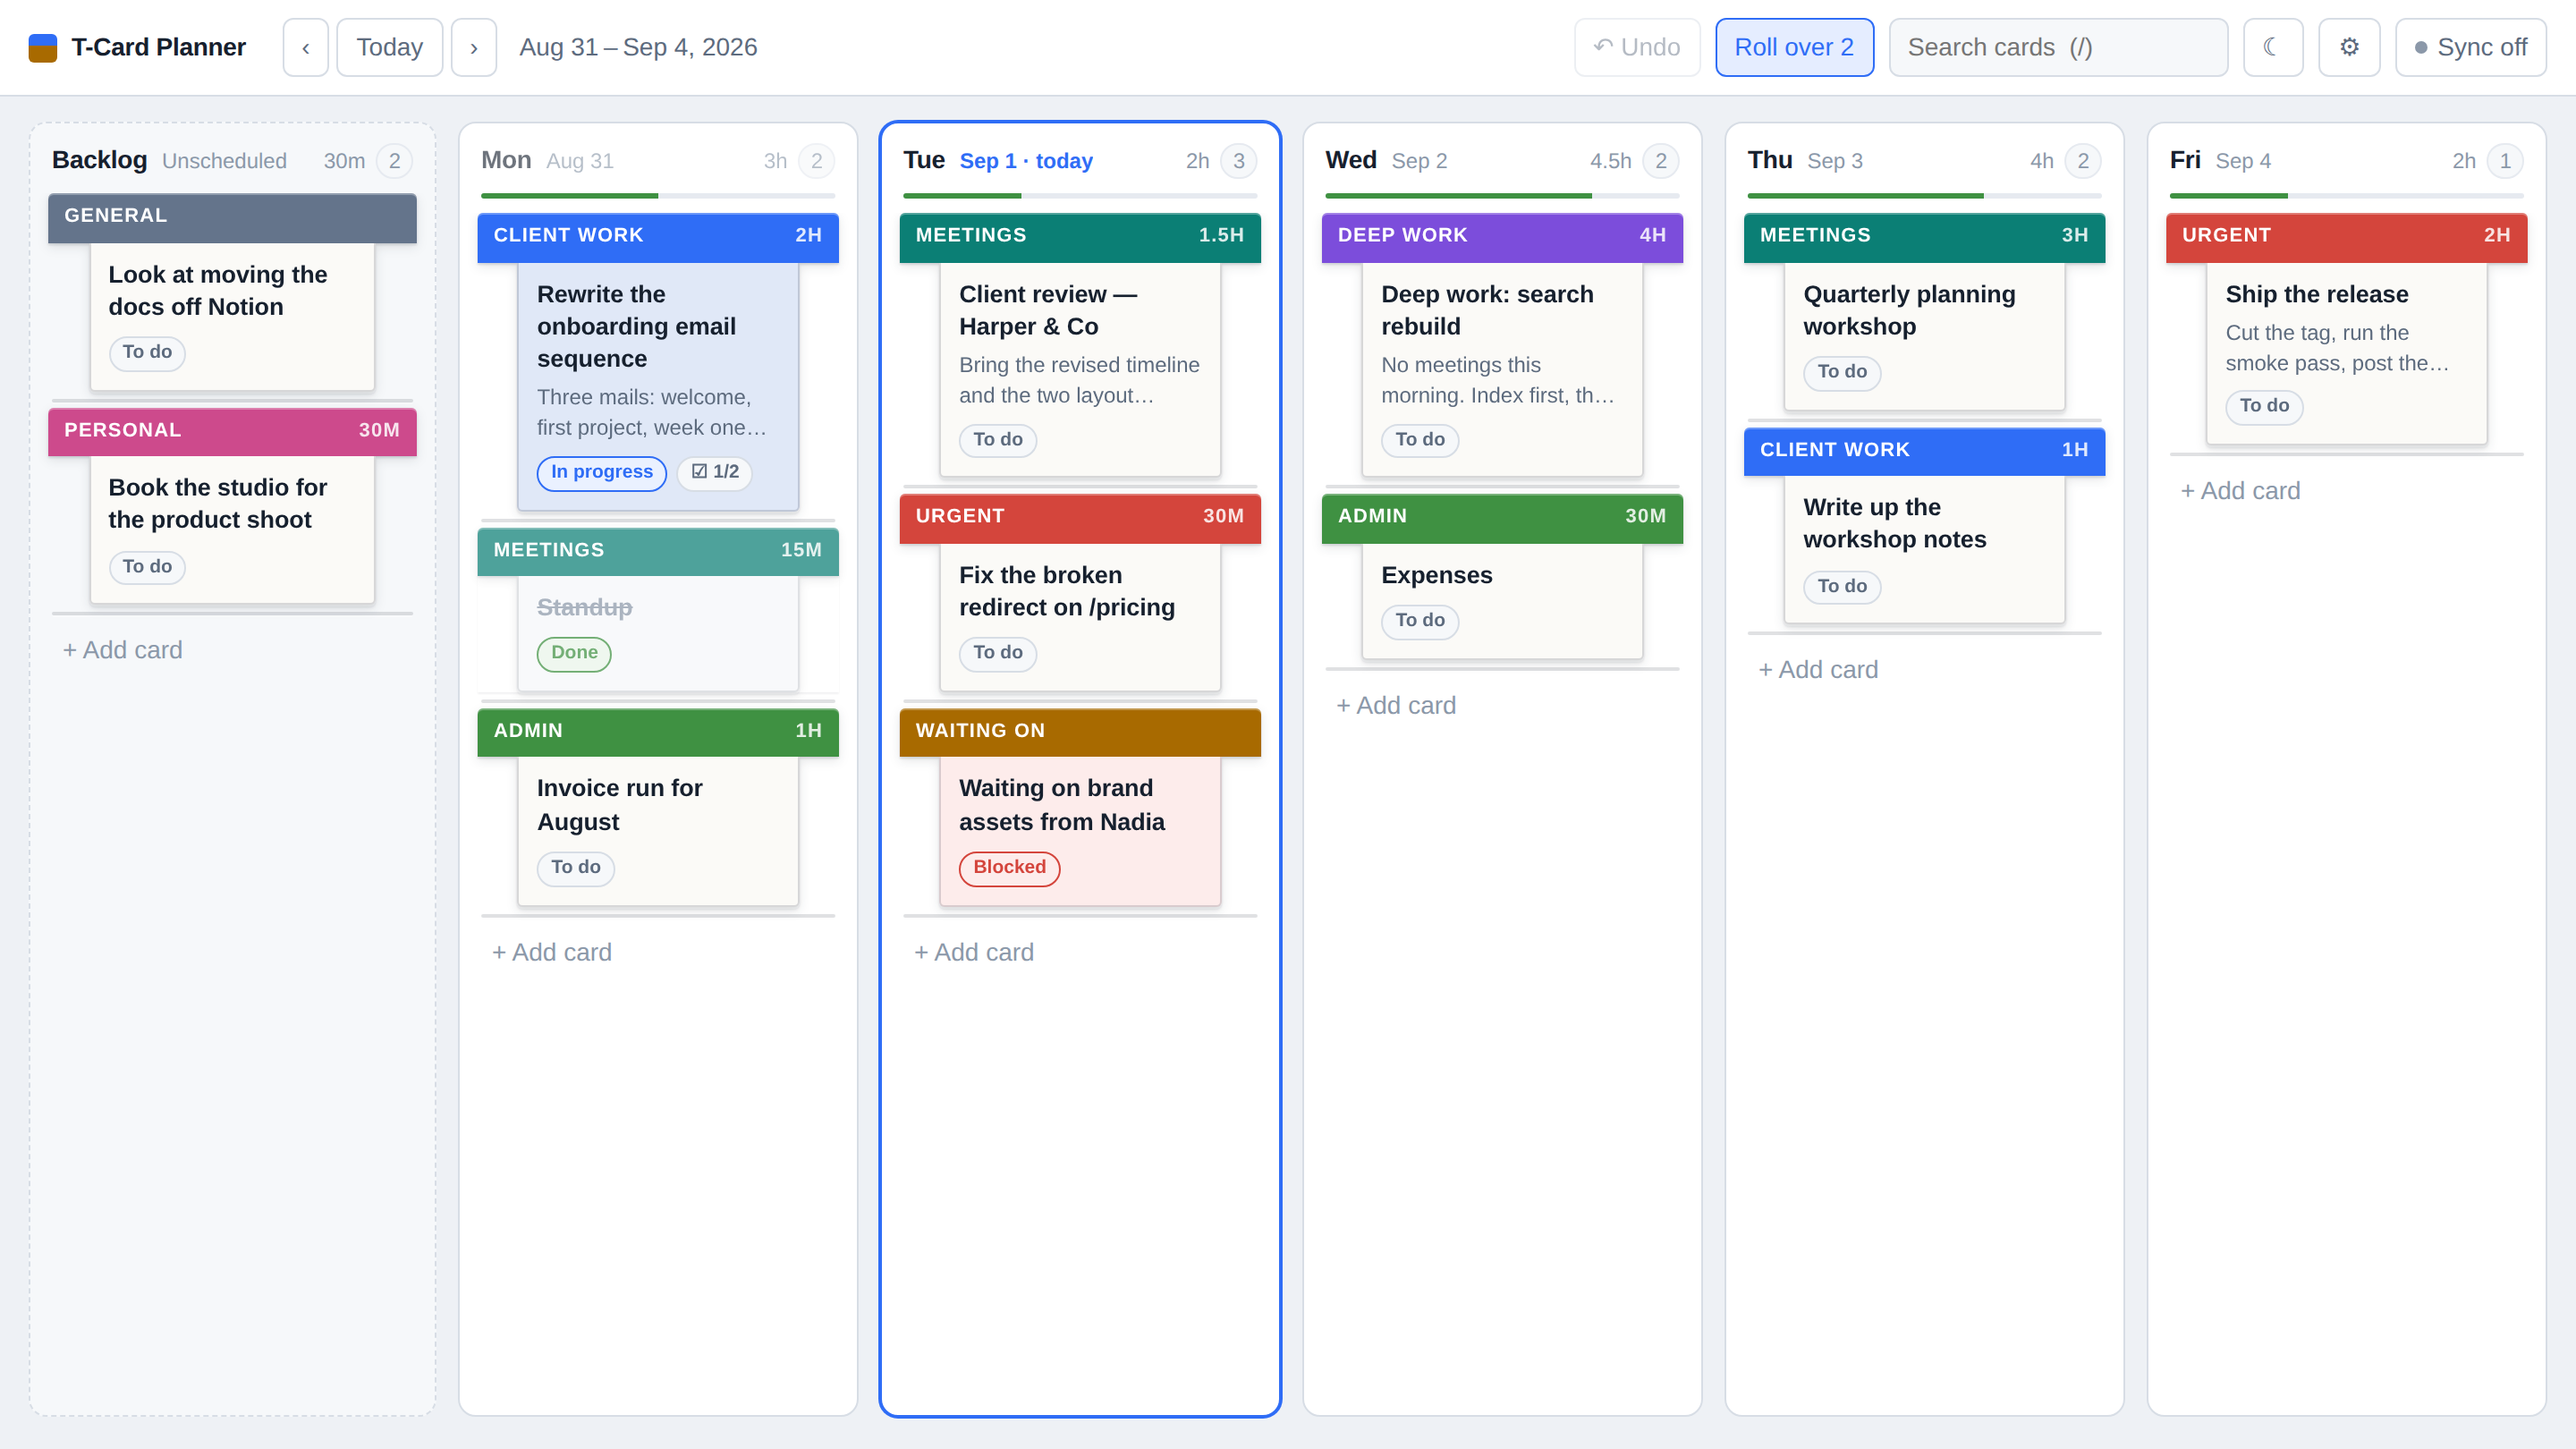
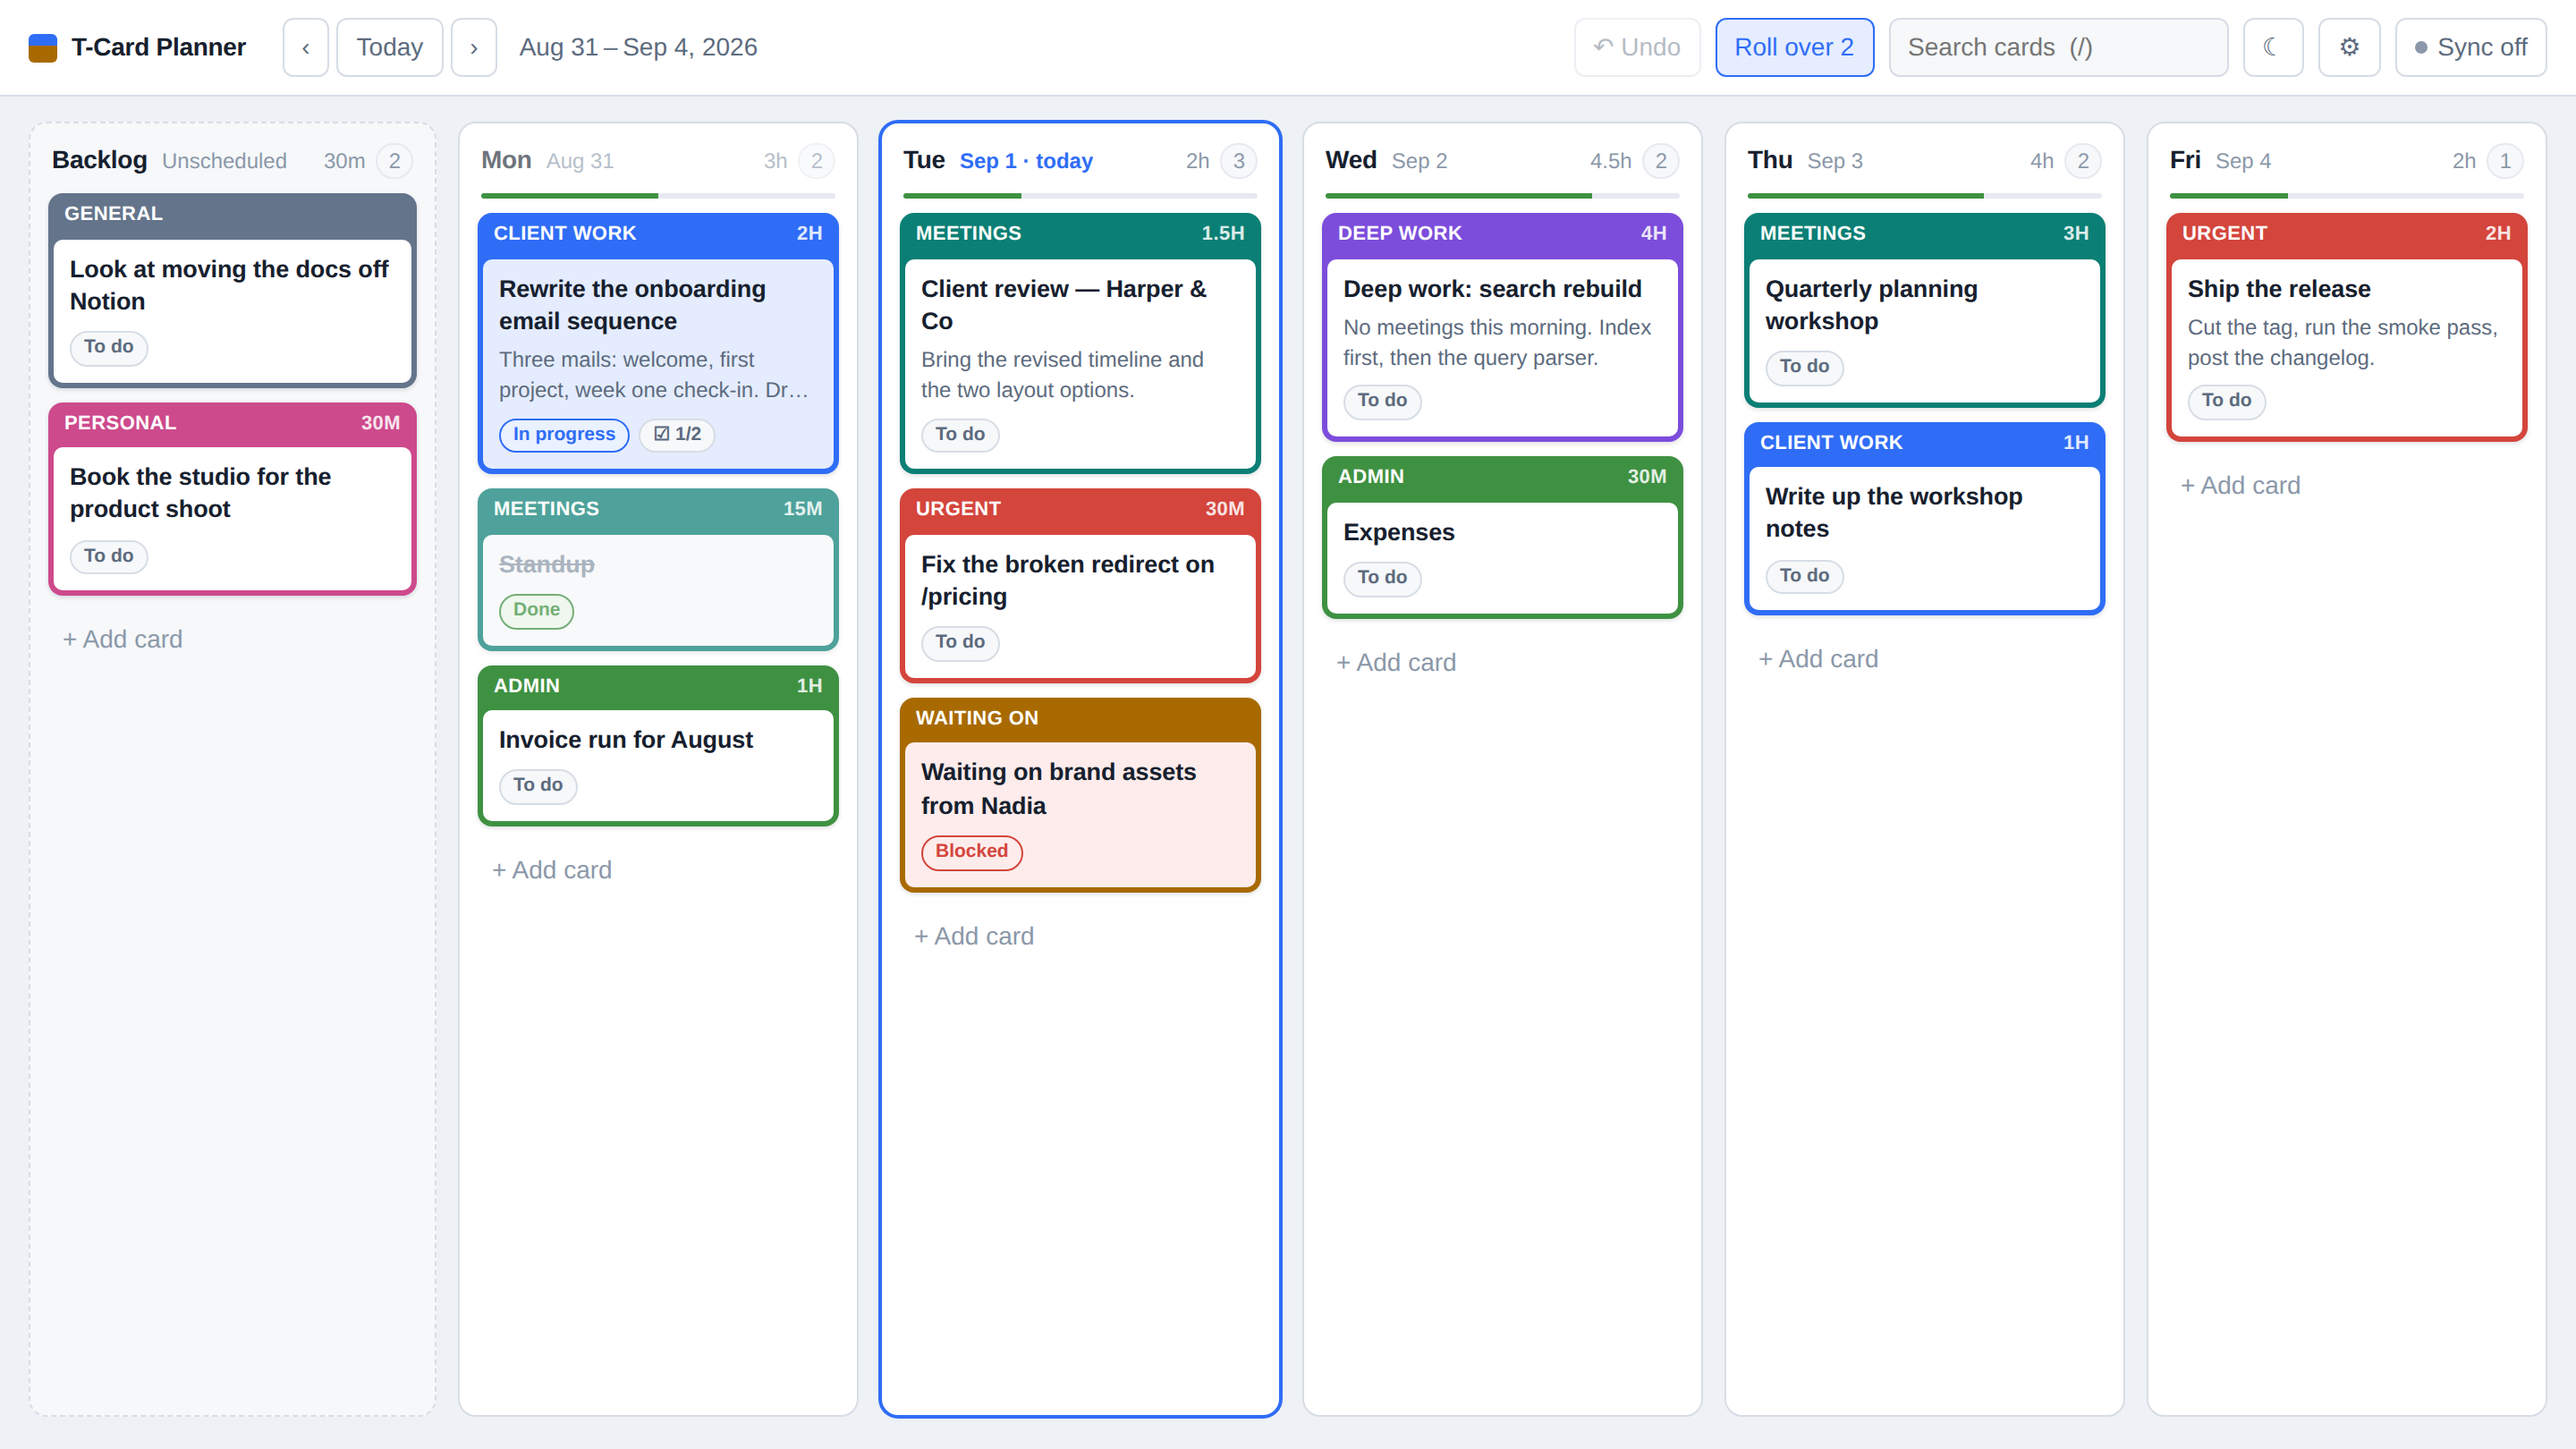
Restyle the card as a coloured panel rather than a cut silhouette
Draws the card as a solid block of its category colour with the body panel
inset in it: rounded corners, a plain box-shadow, the head lettered at the
lighter weight, and 8px of air between cards.

The T-card silhouette this replaces cut the card to a T — a full-width head
over a stem drawn in 11% each side, on card-coloured stock, with a rail
under each slot and drop-shadows following the painted shape. It reads well
in isolation, but the stem gave up a third of the card's width, most of it
either side of the text you actually read, and the shape needed card stock,
rail and bevel tokens to hold up. The panel says the same thing — colour is
the category, and it's what you read the board by — in a fraction of the
CSS, and gives the whole width back to the card's contents.

Gone with it: the card-stock and rail tokens, the slot rail, the stem inset
and its drop-shadow filters, and the tighter corner radius.

Untouched: the head is still lettered in `--c-ink`, chosen per category from
its own luminance, so a pale colour picked in Settings stays readable; the
body tint is still mixed from the category's colour, into `--surface` now
that the body is drawn on it.

Claude-Session: https://claude.ai/code/session_01MDNMZqyp5mzas64dEEcKLP

diff --git a/src/styles.css b/src/styles.css
@@ -18,13 +18,6 @@
   --radius: 8px;
   /* Ink on a solid accent fill. */
   --head-ink: #ffffff;
-  /* Card stock. Barely off-white — real cards aren't screen-white, but the
-     board around them is untouched. */
-  --card-paper: #fbfaf7;
-  --card-line: rgba(16, 24, 40, 0.15);
-  --card-edge: rgba(16, 24, 40, 0.16);
-  --card-sheen: rgba(255, 255, 255, 0.3);
-  --rail: rgba(16, 24, 40, 0.13);
 
   /* Status and warning colours. These are the app's own, fixed: the category
      palette next door is yours to change, and a "Blocked" pill that turned
@@ -53,15 +46,8 @@
   --danger: #f0736b;
   --shadow-1: 0 1px 2px rgba(0, 0, 0, 0.4);
   --shadow-2: 0 10px 28px rgba(0, 0, 0, 0.5);
-  /* Dark theme's fills are pastel, so the ink flips to near-black. */
+  /* Dark theme's accent is pastel, so the ink on it flips to near-black. */
   --head-ink: #0f141b;
-  /* Lighter than the lane behind it — on a dark board the shadow does nothing,
-     so the stock itself has to be what stands the card off the surface. */
-  --card-paper: #242c39;
-  --card-line: rgba(255, 255, 255, 0.1);
-  --card-edge: rgba(0, 0, 0, 0.5);
-  --card-sheen: rgba(255, 255, 255, 0.07);
-  --rail: rgba(0, 0, 0, 0.42);
 
   --s-todo: #8b9ab0;
   --s-doing: #5b8cff;    --s-doing-tint: #1b2740;
@@ -215,7 +201,7 @@ button, input, select, textarea { font: inherit; color: inherit; }
 .lane-drop {
   display: flex;
   flex-direction: column;
-  gap: 2px;
+  gap: 8px;
   padding: 0 10px 10px;
   overflow-y: auto;
   flex: 1;
@@ -257,100 +243,51 @@ button, input, select, textarea { font: inherit; color: inherit; }
   -webkit-touch-callout: none;
   -webkit-user-select: none;
   user-select: none;
-  /* Room beneath each card for the rail it sits in. */
-  position: relative;
-  padding-bottom: 7px;
 }
 .tcard-slot:active { cursor: grabbing; }
-.tcard-slot:focus-visible { outline: 2px solid var(--accent); outline-offset: 2px; border-radius: 3px; }
+.tcard-slot:focus-visible { outline: 2px solid var(--accent); outline-offset: 2px; border-radius: var(--radius); }
 
-/* The pocket lip the card is slotted into. A column of these reads as a rack
-   rather than a list, which is most of what makes a board look like a board. */
-.tcard-slot::after {
-  content: '';
-  position: absolute;
-  left: 2px;
-  right: 2px;
-  bottom: 1px;
-  height: 2px;
-  border-radius: 1px;
-  background: var(--rail);
-  box-shadow: 0 1px 0 var(--card-sheen);
-}
-/* A T-card is one piece of stock cut to a T: a full-width coloured head with
-   the category on it, and a narrower stem hanging below carrying the detail.
-   The card is drawn as that silhouette, with the board showing either side of
-   the stem — a coloured box with a white panel inside is a picture frame, not
-   a T-card.
-
-   `drop-shadow` follows the painted shape, so the shadow is T-shaped too; a
-   box-shadow would draw a rectangle around the whole thing and give the game
-   away. */
 .tcard {
-  /* Overridden by whichever `.c-*` class the card wears; here so a card is
-     never left with no colour at all. */
   --c: var(--c-slate);
   --c-ink: var(--c-slate-ink);
   /* A category's body tint is mixed from its own colour, so a colour picked in
-     Settings brings its pale companion with it rather than needing a second.
-     Mixed into the card stock rather than the lane behind it: the stem is
-     paper, and a tint that ignored that would read as a hole in the card. */
-  --c-tint: color-mix(in srgb, var(--c) 13%, var(--card-paper));
-  /* How far the stem is drawn in on each side. A percentage, so the shape
-     holds from a phone column to a wide one. */
-  --stem: 11%;
-  filter:
-    drop-shadow(0 1px 0.5px rgba(16, 24, 40, 0.13))
-    drop-shadow(0 2px 3px rgba(16, 24, 40, 0.11));
-  transition: filter 120ms, transform 120ms;
+     Settings brings its pale companion with it rather than needing a second. */
+  --c-tint: color-mix(in srgb, var(--c) 13%, var(--surface));
+  background: var(--c);
+  border-radius: var(--radius);
+  box-shadow: var(--shadow-1);
+  overflow: hidden;
+  transition: box-shadow 120ms, transform 120ms;
 }
 
-/* Lifting a card raises its shadow rather than moving it, so nothing shifts
-   under the pointer on the way into a drag. */
-.tcard-slot:hover .tcard {
-  filter:
-    drop-shadow(0 2px 1px rgba(16, 24, 40, 0.14))
-    drop-shadow(0 6px 10px rgba(16, 24, 40, 0.18));
-}
-.tcard.is-dragging {
-  filter: drop-shadow(0 10px 18px rgba(16, 24, 40, 0.3));
-  /* Out of the rack and held at an angle, the way a lifted card actually sits. */
-  transform: rotate(1.6deg) scale(1.02);
-}
+.tcard-slot:hover .tcard { box-shadow: var(--shadow-2); }
+.tcard.is-dragging { box-shadow: var(--shadow-2); transform: rotate(1.4deg); }
 .tcard.is-dimmed { opacity: 0.32; }
 
-/* The head: the bar of the T, and the only coloured part of the card. */
+/* The head is the full-width bar of the T … */
 .tcard-head {
   display: flex;
   align-items: center;
   gap: 6px;
-  padding: 5px 9px 6px;
-  background: var(--c);
-  border-radius: 3px 3px 0 0;
-  box-shadow: inset 0 1px 0 var(--card-sheen);
+  padding: 4px 9px 5px;
+  /* Whichever of black or white reads on this category's own colour, rather
+     than one ink per theme — the colours are the user's to pick. */
   color: var(--c-ink);
   font-size: 11px;
-  font-weight: 700;
-  letter-spacing: 0.055em;
+  font-weight: 600;
+  letter-spacing: 0.02em;
   text-transform: uppercase;
 }
 
 .tcard-cat { overflow: hidden; text-overflow: ellipsis; white-space: nowrap; }
 .tcard-est { margin-left: auto; opacity: 0.85; font-variant-numeric: tabular-nums; }
 
-/* The stem: paper, narrower than the head, hanging from it. Only the bottom
-   corners are eased — the top edge is where it meets the head. */
+/* … and the body is the inset stem, leaving the colour showing down both sides. */
 .tcard-body {
-  margin: 0 var(--stem);
-  padding: 9px 10px 10px;
-  background: var(--card-paper);
-  /* No top edge: that is where the stem meets the head. The bottom line is the
-     thickness of the card, which is what keeps it looking like an object
-     rather than a painted rectangle. */
-  border: 1px solid var(--card-line);
-  border-top: 0;
-  border-radius: 0 0 3px 3px;
-  box-shadow: 0 1px 0 var(--card-sheen);
+  margin: 0 3px 3px;
+  padding: 8px 9px 9px;
+  background: var(--surface);
+  border-radius: 5px;
 }
 
 .tcard-title {
@@ -402,7 +339,6 @@ button, input, select, textarea { font: inherit; color: inherit; }
 .c-pink { --c: var(--c-pink); --c-ink: var(--c-pink-ink); }
 
 .tcard.s-done .tcard-body { background: var(--surface-2); }
-.tcard.s-done { box-shadow: inset 0 1px 0 var(--card-sheen), 0 1px 1px rgba(16, 24, 40, 0.08); }
 .tcard.s-done .tcard-title { text-decoration: line-through; color: var(--text-faint); }
 .tcard.s-done { opacity: 0.72; }
 .tcard.s-blocked .tcard-body { background: var(--s-blocked-tint); }
